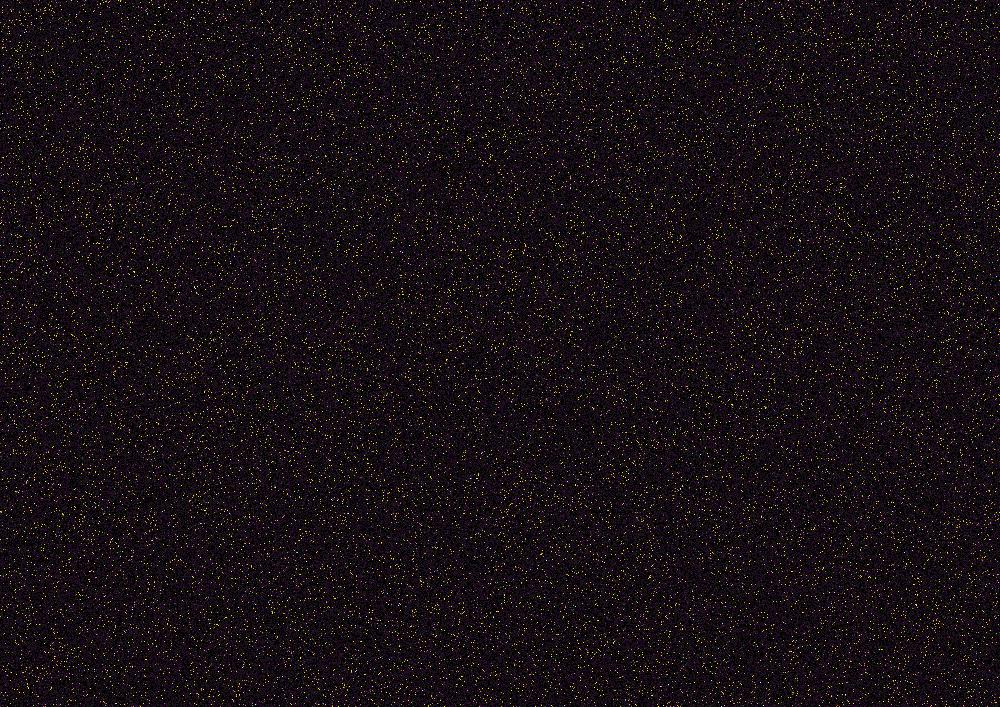
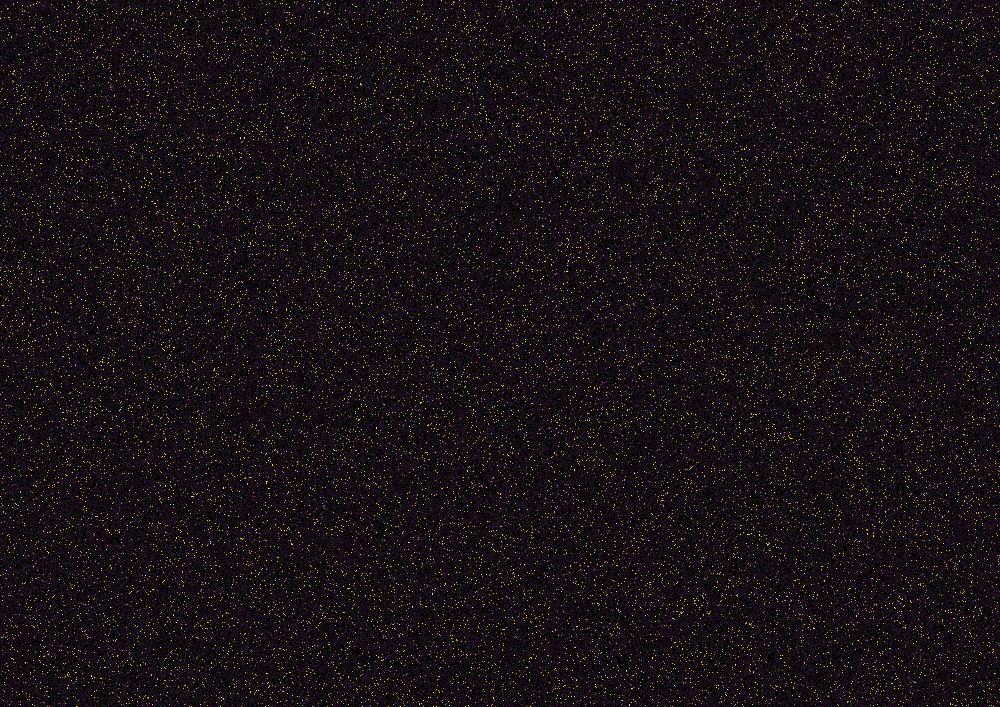
Made separate function for adding pixels to list

Changed region(s): [[0.0, 0.0, 1.0, 1.0]]

diff --git a/Appropriation Art Exhibit/exhibit.py b/Appropriation Art Exhibit/exhibit.py
@@ -33,17 +33,22 @@ def getHeight(img):
     return height
 
 
+# Adds the coordinates of each pixel in an image to a list
+def addPixelsToList(img):
+    coordinates = []
+    for x in range(0, getWidth(img)):
+        for y in range(0, getHeight(img)):
+            coordinates.append((x,y))
+    return coordinates
+
+
 # Makes a copy of the image and randomly shuffles all of its pixels
 def getShuffledImage(img):
     originalImg = img
-    newImg = originalImg
+    newImg = img
     originalPixels = originalImg.load()
     shuffledPixels = newImg.load()
-    remainingIndices = []
-
-    for x in range(0, getWidth(originalImg)):
-        for y in range(0, getHeight(originalImg)):
-            remainingIndices.append((x,y))
+    remainingIndices = addPixelsToList(img)
 
     for x in range(0, getWidth(originalImg)):
         for y in range(0, getHeight(originalImg)):
@@ -113,5 +118,5 @@ def shufflePixels(file="sad.jpg"):
     img.save(newFileName)
 
 
-#changeHighColors()
+changeHighColors()
 shufflePixels()
